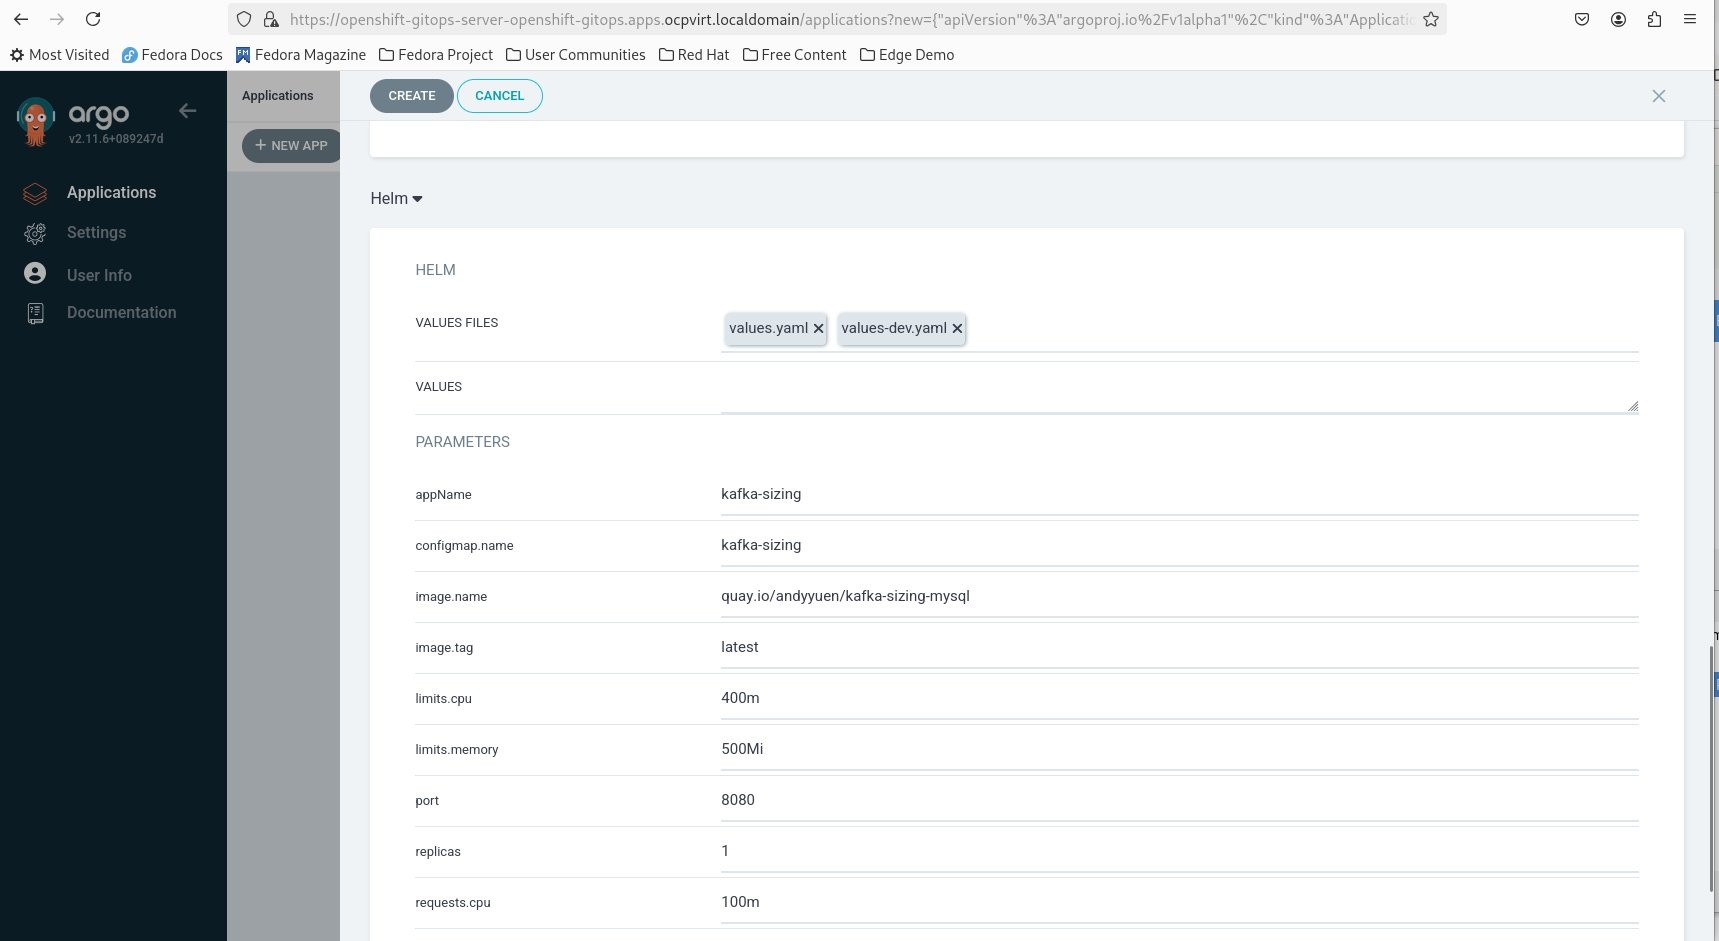
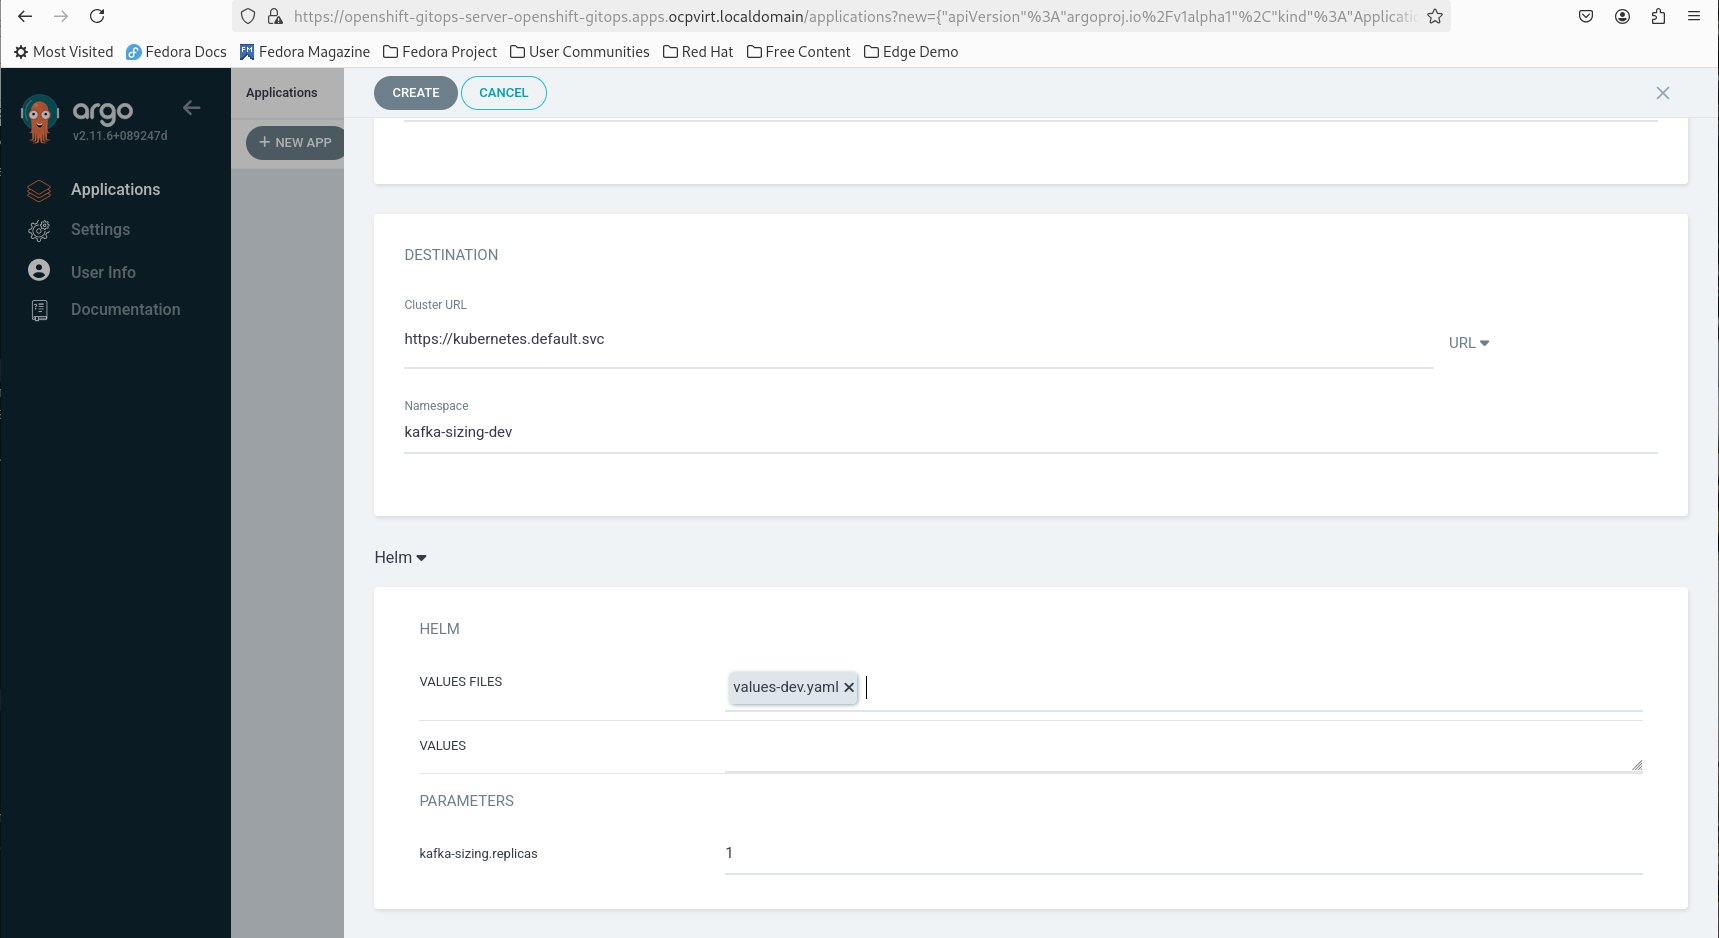
Added capability to modify MySQL matching passwords in kafka-sizing's configmap and mysql's secret.

diff --git a/README.md b/README.md
@@ -160,8 +160,23 @@ Helm is a package manager that provides easy automated deployment and management
 The Helm chart directory structure is shown below:
 ![Helm Chart Directory Structure](images/helm-directory-tree.jpg "Helm Chart Directory Structure")
 
+I have a parent chart (helm-kafka-sizing) which consists of two child charts (kafka-sizing and mysql). Each chart has its own values.yaml file. The parent Chart.yaml defines the dependencies on the two child charts:
+<pre>
+...
+dependencies:
+  - name: kafka-sizing
+    version: "0.3.0"
+    repository: "file://./charts/kafka-sizing"
+    enabled: true
+  - name: mysql
+    version: "0.1.0"
+    repository: "file://./charts/mysql"
+    enabled: true
+
+</pre>
+
 ### 3.1.2 Templates and Values
-The yaml files in the templates directory have been set up with template directives and the syntax is shown below:
+The yaml files in the templates directories have been set up with template directives and the syntax is shown below:
 <pre>
 apiVersion: apps/v1
 kind: Deployment
@@ -173,8 +188,8 @@ spec:
   replicas: {{ .Values.replicas }}
   ...
 </pre>
-Each parameter specified in the template directive is replaced by those defined in the values.yaml and values-XXX files when you install the Helm chart.
-Here is a sample of the values.yaml:
+Each parameter specified in the template directive is replaced by those defined in the values.yaml and/or values-XXX files when you install the Helm chart.
+Here is the values.yaml for kafka-sizing:
 <pre>
 appName: kafka-sizing
 
@@ -187,6 +202,8 @@ schemaUrl: https://raw.githubusercontent.com/andyyuen/kafka-sizing/master/src/ma
 configmap:
   name: kafka-sizing
 
+databaseRootPassword: sa
+
 image:
   name: quay.io/andyyuen/kafka-sizing-mysql
   tag: latest
@@ -198,9 +215,10 @@ requests:
 limits:
   memory: 500Mi
   cpu: 400m
-</pre>
 
-To add the DeploymentConfig lifecycle hook to the mysql.yaml generated by the 'oc process' command for the MySQL database deployment, a named template, _mysql-hook.yaml, is used. Its content is shown below:
+</pre>
+The mysql.yaml file in the mysql chart was generated using an OpenShift Template. The template directives were inserted afterwards.
+To add the DeploymentConfig lifecycle hook to the mysql.yaml, a named template, _mysql-hook.yaml, is used. Its content is shown below:
 <pre>
 {{ define "mysqlHook" }}
 recreateParams:
@@ -241,6 +259,7 @@ Pay attention to the 'indent 6' function call which specifies that the yaml code
 Note: The mysql DeploymentConfig's imageChange trigger changes the image name (initially left blank) causing Argo CD to constantly get out of sync. Although Argo CD allows ignoring differences at a specific JSON path, using RFC6902 JSON patches and JQ path expressions, I want to keep it simple. I just commented out the imageChange trigger and filled in the image name to get rid of the out-of-sync error.
 
 Helm does not have a convenient mechanism to generate a configmap object like kustomize's configMapGenerator. Hence, I am making use of this kustomize feature to generate a configmap based on kafka-sizing's application.properties file for my Helm chart. See Section 4 for details.
+Note that the dev and prod environments have different MySQL passwords with matching kafka-sizing configmap and mysql secret.
 
 ### 3.1.3 Deploying My Helm Chart Without Argo CD
 All you need to do is switch to the project (namespace) you want to deploy in and run the helm command:
@@ -250,7 +269,7 @@ oc project helm-test
 
 # Install the application from the 'simple-argo-example/helm-kafka-sizing' directory,
 # using the dev environment configuration
-helm install helm-kafka-sizing . --values values.yaml,values-dev.yaml
+helm install helm-kafka-sizing . --values values-dev.yaml
 
 # Uninstall the application
 helm uninstall helm-kafka-sizing
@@ -269,7 +288,7 @@ Note that you may encounter a login page first.
 Click '+ NEW APP' and enter the parameters as shown:
 ![Helm Argo CD parameters Part1](images/helm-argoCD-deploy-1.jpg "Helm Argo CD parameters Part1")
 ![Helm Argo CD parameters Part2](images/helm-argoCD-deploy-2.jpg "Helm Argo CD parameters Part2")
-For the Helm section, you only need to select the values.yaml and values-dev.yaml files. The other parameters are filled in automatically.
+For the Helm section, you only need to select the values-dev.yaml files. The other parameters are filled in automatically.
 ![Helm Argo CD parameters Part2](images/helm-argoCD-deploy-3.jpg "Helm Argo CD parameters Part3")
 And you will see the application you just created:
 ![Argo CD Helm Application](images/helm-application.jpg "Argo CD Helm Application")
@@ -290,7 +309,7 @@ replicas: 2
 
 # to:
 
-replicas: 5
+replicas: 4
 </pre>
 and push the change to your Git repository. Argo CD, once detected the change, will provison 3 additional kafka-sizing pods to make the current state match the target state. Note that Argo CD does not detect the change instantly. Be patient.
 
@@ -318,12 +337,20 @@ kind: Kustomization
 resources:
 - ../../kafka-sizing
 - ../../mysql
+
 patches:
 - path: resources.yaml
 - path: replicas.yaml
+- path: mysql-secret.yaml
+
+configMapGenerator:
+- name: kafka-sizing
+  behavior: merge
+  literals:
+  - spring.datasource.password=ssp
 </pre>
 resources: points to the two base directories kafka-sizing and mysql.
-patches: instructs kustomize to merge the resources.yaml and replicas.yaml with the appropriate base manifests. In this case, they both transform the kafka-sizing deployment manifest. resources.yaml transforms the resource requests/limits on cpu and mamory and replicas.yaml transforms the number of replicas.
+patches: instructs kustomize to merge the resources.yaml and replicas.yaml with the appropriate base manifests. In this case, they both transform the kafka-sizing deployment manifest. resources.yaml transforms the resource requests/limits on cpu and mamory and replicas.yaml transforms the number of replicas. 
 Both resources.yaml and replicas.yaml contains selectors to identify the the base manifest, in this case, deployment. Let's look at the resources.yaml.
 <pre>
 apiVersion: apps/v1
@@ -353,11 +380,14 @@ kind: Kustomization
 resources:
 - ../../kafka-sizing
 - ../../mysql
+
 patches:
 - path: replicas.yaml
 
 </pre>
 Its is similar to the one in the prod directory but only transforms the number of replicas in the base manifest. The resource requests/limits on cpu and memory remain unchanged from the base mainfest, unlike the one in the prod directory.
+mysql-secret.yaml transforms the mysql secret's passwords.
+And the configMapGenerator section changs the mysql password in the kafka-sizing configmap.
 
 ### 3.2.2 Deploying Using Kustomize without Argo CD
 All you need to do is switch to the project you want to deploy in and run the kustomize command:
@@ -394,20 +424,20 @@ Notice that all the pods have a green heart, meaning everything is OK. There are
 # 4. Utility Shell Scripts
 Three utility shell scripts have been provided for your convenience.
 
-1. createArgoCDInstance.sh - this script creates an Argo CD instance in the namespace you specify. You must create an Argo CD instance in each namespace you want to deploy my example application in.
+1. createArgoCDInstance.sh - this script creates an Argo CD instance in the namespace you specify. You must create an Argo CD instance in each namespace you want to deploy my example application in. It is assumed that you execute these shell scripts from the scripts directory.
 <pre>
 # Usage: ./createArgoCDInstance.sh namespace
 ./createArgoCDInstance.sh kafka-sizing-prod
 </pre>
 
-2. processMysqlYaml.sh - creates and executes a temporary Helm chart to generate a mysql DeploymentConfig yaml file with a DeploymentConfig lifecycle post hook added to initialise the database with a schema for use by the example application. The shell script does not require any input parameter. It is intended that you redirect the output to a file. The mysql-init.yaml in the 'mysql' directory was generated using this shell script.
+2. addDeploymentConfigHook.sh - uses the child mysql chart to add a DeploymentConfig lifecycle post hook to mysql.yaml for database schema creation. This shell script does not require any input parameter. It is intended that you redirect the output to a file, mysql-init.yaml, in kustom-kafka-sizing's mysql directory.
 <pre>
-./processMysqlYaml.sh > ../kustom-kafka-sizing/mysql/mysql-init.yaml
+./addDeploymentConfigHook.sh > ../kustom-kafka-sizing/mysql/mysql-init.yaml
 </pre>
 
-3. processConfigmap.sh - creates and executes a temporary kustomize project to generate a configmap based on a properties file. This feature is missing in Helm. It is intended that you redirect the output to a file. The configmap.yaml in helm-kafka-sizing's templates dirctory was generated using this shell script.
+3. createConfigmap.sh - creates and executes a temporary kustomize project to generate a configmap based on a properties file. This feature is missing in Helm. It is intended that you redirect the output to a file. The configmap.yaml in helm-kafka-sizing/charts/kafka-sizing's templates dirctory was generated using this shell script.
 <pre>
-./processConfigmap.sh > ../helm-kafka-sizing/templates/configmap.yaml
+./createConfigmap.sh > ../helm-kafka-sizing/charts/kafka-sizing/templates/configmap.yaml
 </pre>
 
 
